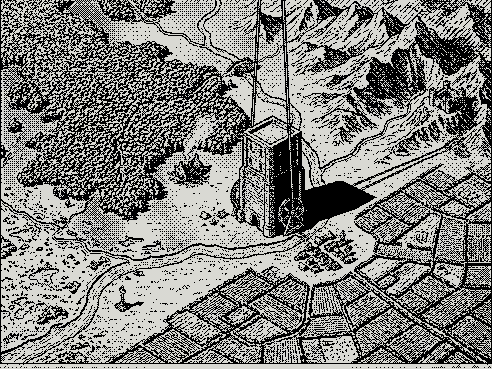
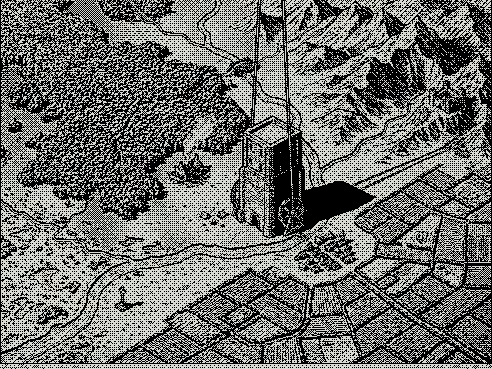
0.110.2 — 082 phase-1g: highlight ceiling tones the burned-white paper down

diff --git a/plugin_linear_ascent/version.py b/plugin_linear_ascent/version.py
@@ -1,1 +1,1 @@
-VERSION = "0.110.1"
+VERSION = "0.110.2"
